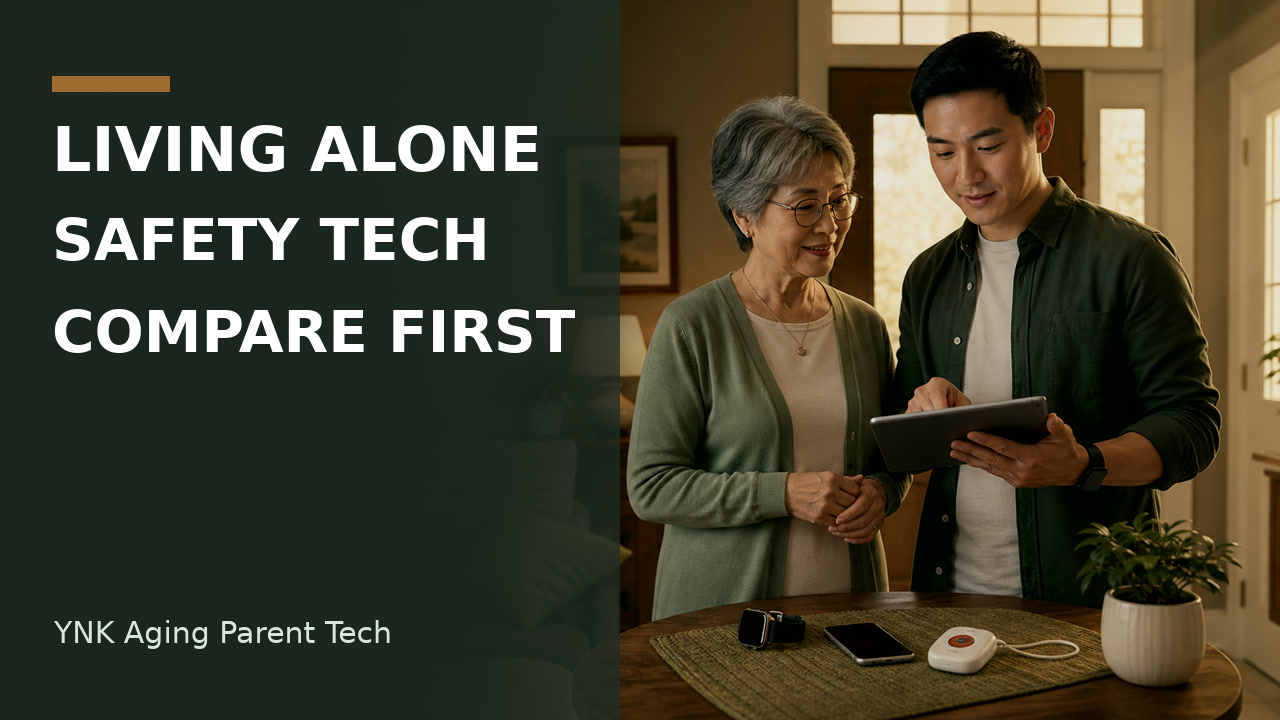
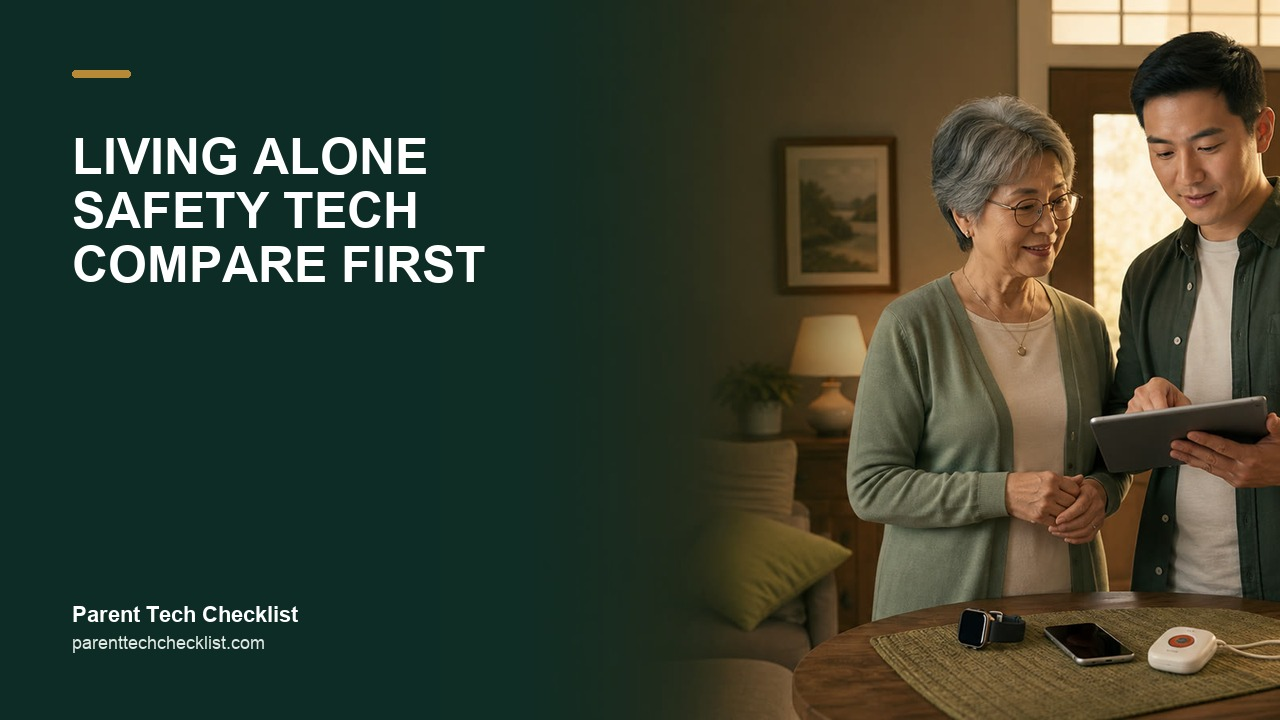
Refresh guide thumbnails and hide verification text

diff --git a/index.html b/index.html
@@ -132,8 +132,6 @@
   <link rel="stylesheet" href="styles.css">
 </head>
 <body class="site-home">
-  <span hidden>Impact-Site-Verification: ef98e677-3b33-460b-ae45-651650eb0139</span>
-  <p class="site-verification site-verification-top">Impact-Site-Verification: ef98e677-3b33-460b-ae45-651650eb0139</p>
   <header class="site-header">
     <a class="brand" href="https://parenttechchecklist.com/" aria-label="Parent Tech Checklist home">
       <img src="assets/ptc-avatar-96.png" width="42" height="42" alt="Parent Tech Checklist logo" decoding="async">
@@ -324,7 +322,6 @@
       <a href="/disclosure">Disclosure</a>
       <a href="https://www.youtube.com/@ParentTechChecklist" rel="noopener">YouTube</a>
     </div>
-    <p class="site-verification">Impact-Site-Verification: ef98e677-3b33-460b-ae45-651650eb0139</p>
   </footer>
 </body>
 </html>
